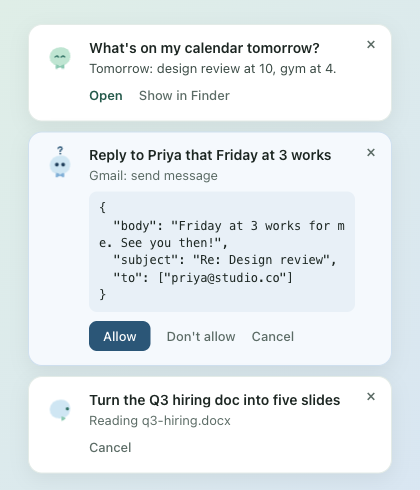
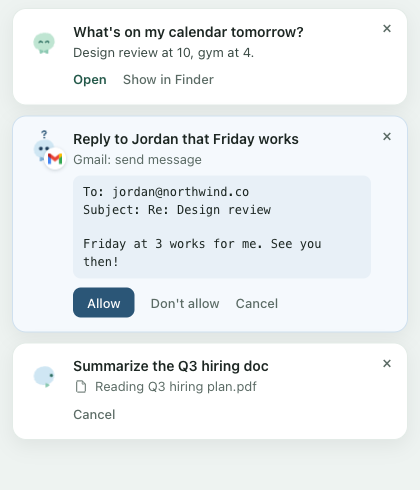
New header animation of the real UI, fresh screenshots, word-wrap permission text

diff --git a/src/toasts.css b/src/toasts.css
@@ -203,7 +203,7 @@ body {
   font-size: 12px;
   line-height: 1.45;
   white-space: pre-wrap;
-  word-break: break-all;
+  overflow-wrap: anywhere; /* wrap at spaces; only split long URLs or tokens */
   user-select: text;
 }
 .card[data-expanded] .sub {

diff --git a/README.md b/README.md
@@ -29,7 +29,7 @@ Hold **Ctrl + Option + Space**, say what you need, let go, and keep working. Ott
 
 **History** shows every request as a trace: what you said, each step Otto took with its approval, the output, and the result. Follow-ups stay in the same thread.
 
-<img src="docs/screenshots/history.png" alt="History window: a request to reply to Priya, the Gmail search that ran automatically, the send you allowed, the result, and a follow-up asking about Zoom." width="100%">
+<img src="docs/screenshots/history.png" alt="History window: a request to reply to Jordan, the Gmail search that ran automatically, the send you allowed, the result, and a follow-up asking about Zoom." width="100%">
 
 <table>
   <tr>
